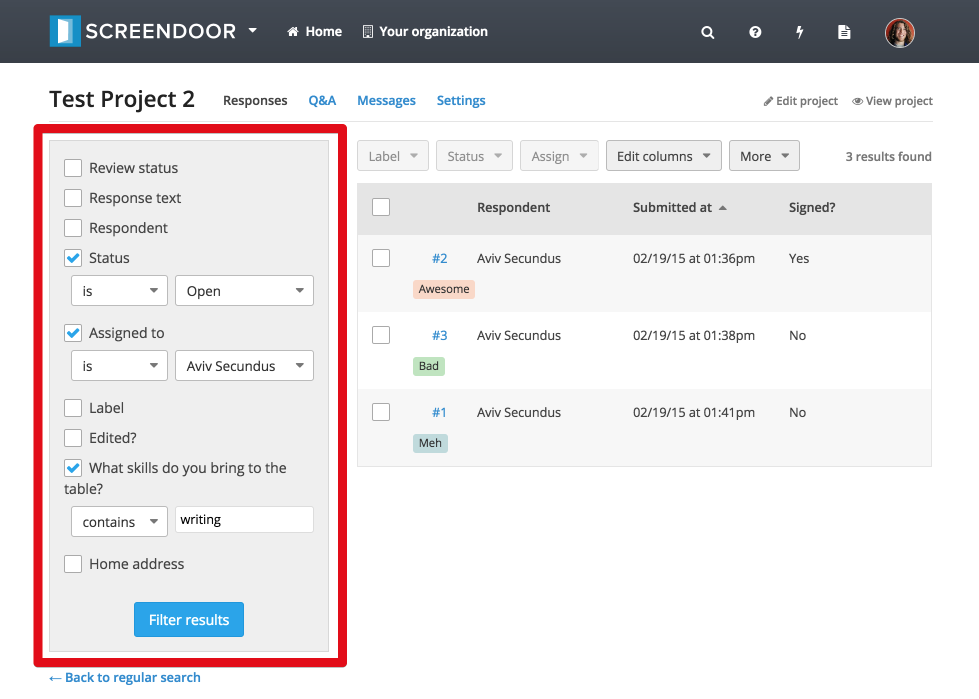
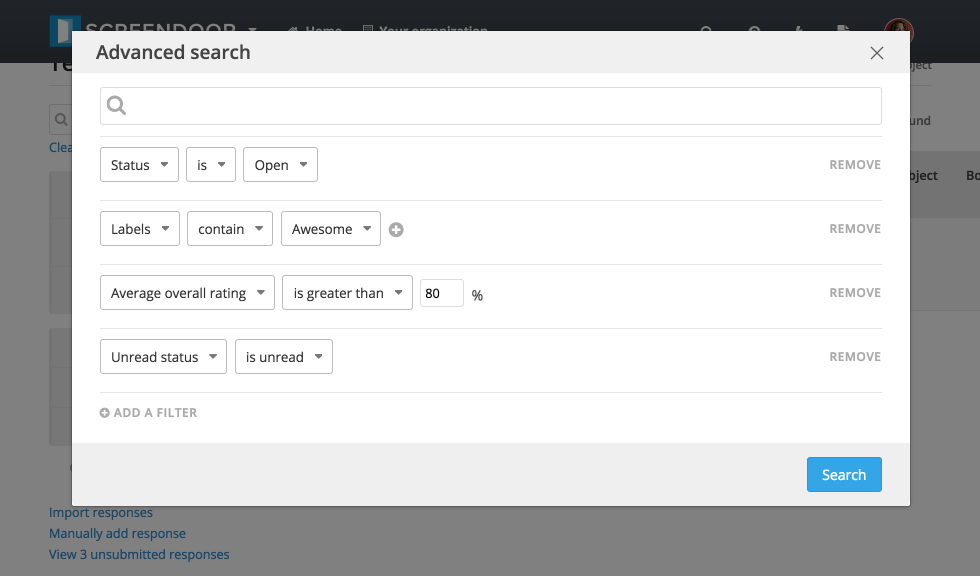
update for new advanced search closes #181

diff --git a/contents/articles/screendoor/responses/sorting_and_filtering_responses.md b/contents/articles/screendoor/responses/sorting_and_filtering_responses.md
@@ -36,6 +36,10 @@ You can also filter by label: just select the label you wish to use as a filter 
 
 ### Advanced search
 
-To perform an advanced search, click "Advanced search" on the left-hand side of the "Responses" page. From the "Advanced search" page, you can search by a variety of criteria. Check the box next to a search filter and fill in your query to activate filtering. Then, after you've activated the appropriate filters, click the "Filter results" button to perform your search. Note that you can perform a search based on your custom form elements.
+To perform an advanced search, click the "..." in the search bar on the "Responses" page.
+
+![advanced search button](../images/advanced_search_button.png)
+
+From the "Advanced search" popup, you can create powerful custom search queries. Click "Add a filter" to filter by a variety of criteria. Then, click "Search" to find all responses that match your query.
 
 ![advanced search filters](../images/advanced_search.png)
